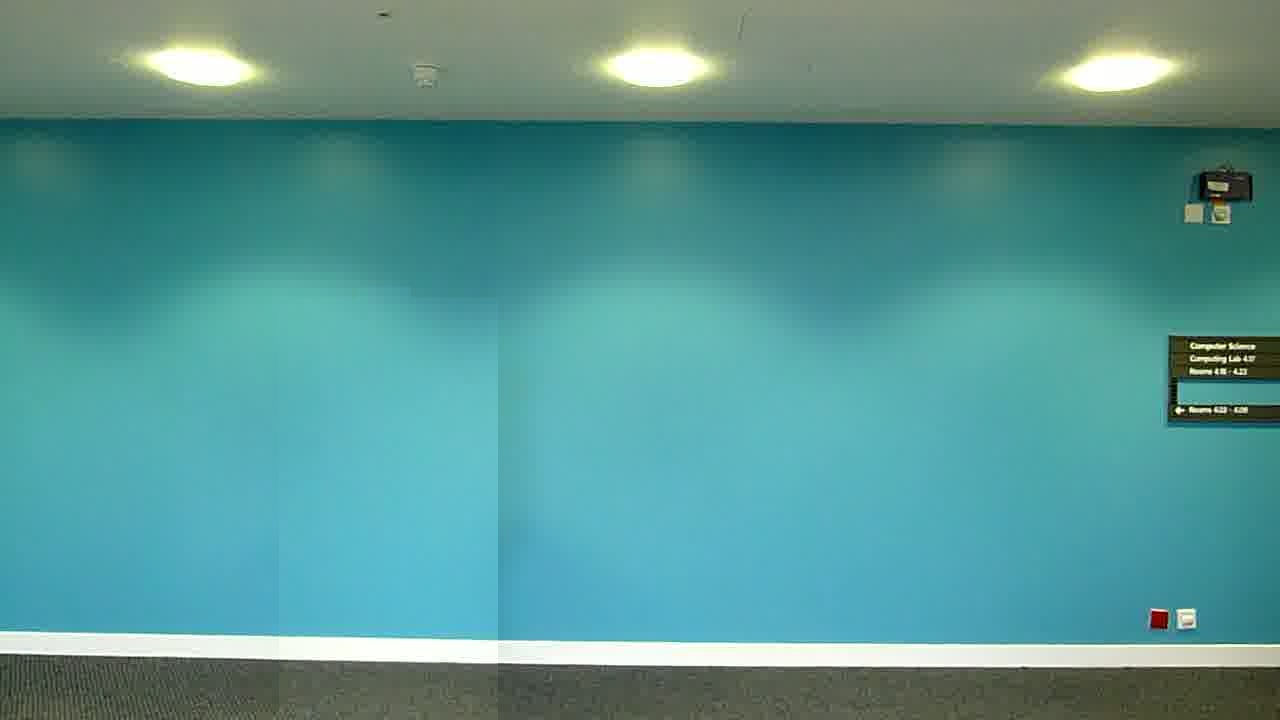
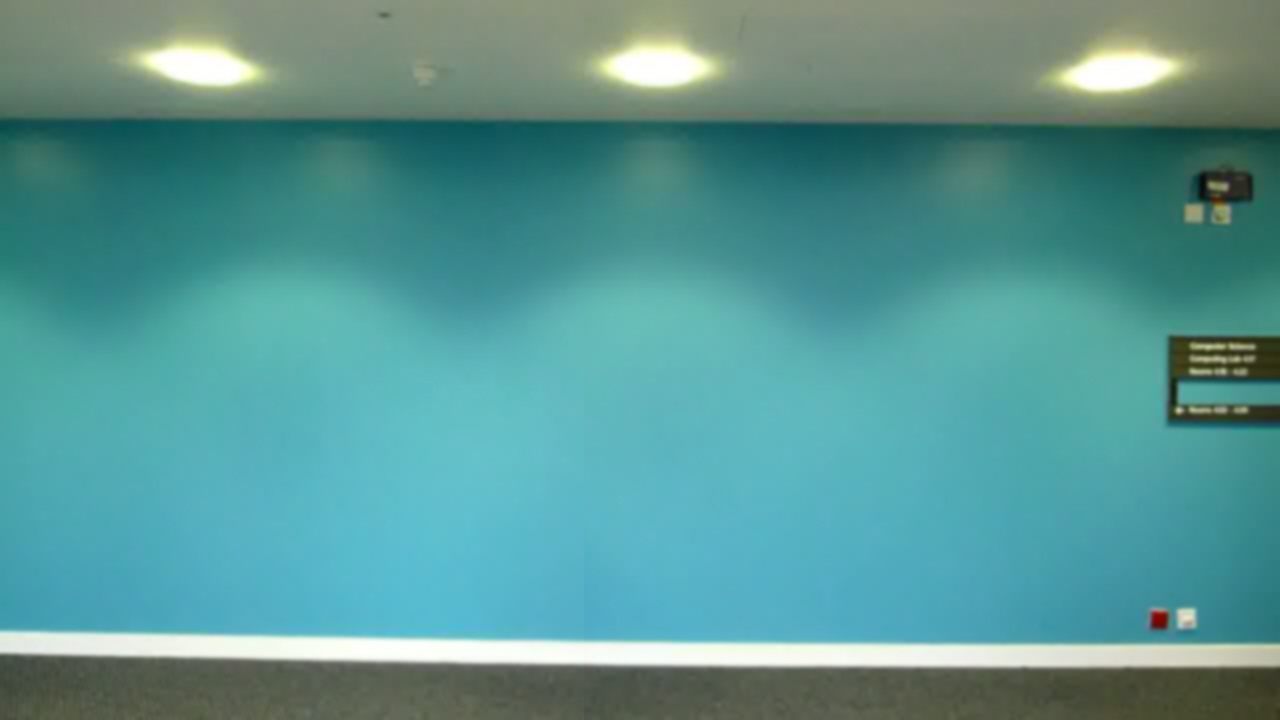
Average Blur Implemented.

diff --git a/src/bgSubtract/BgSubtract.java b/src/bgSubtract/BgSubtract.java
@@ -14,27 +14,26 @@ public class BgSubtract {
 
 	public static void main(String[] args) {
 		try {
-			BufferedImage bgImg1 = ImageIO.read(new File("background1.jpg"));
-			BufferedImage bgImg2 = ImageIO.read(new File("background2.jpg"));
-			BufferedImage[] zomg = {bgImg1, bgImg2};
+			BufferedImage bgImg1 = averageBlur(ImageIO.read(new File(
+					"background1.jpg")));
+			BufferedImage bgImg2 = averageBlur(ImageIO.read(new File(
+					"background2.jpg")));
+			BufferedImage[] zomg = { bgImg1, bgImg2 };
 			bgImg = combineImages(zomg);
 		} catch (IOException e) {
 			System.out.println("Background image not found.");
 		}
 		try {
-			currentImg = ImageIO.read(new File("input1.jpg"));
+			currentImg = averageBlur(ImageIO.read(new File("input1.jpg")));
 		} catch (IOException e) {
 			System.out.println("Input image not found!");
 		}
 
-
-		
 		if (currentImg != null && bgImg != null) {
-			if(currentImg.getWidth() != bgImg.getWidth()){
+			if (currentImg.getWidth() != bgImg.getWidth()) {
+				System.out.println("something went wrong");
 				// TODO: throw an exception
 			}
-			
-			
 			System.out.println("Editing file...");
 			saveImage(removeBackground(currentImg), "output1");
 			System.out.println("File saved!");
@@ -81,22 +80,89 @@ public class BgSubtract {
 		for (int x = 0; x < width0; x++) {
 			for (int y = 0; y < height0; y++) {
 				Color c0 = new Color(img[0].getRGB(x, y));
-				Color c1 = new Color(img[1].getRGB(x, y));		
-				
-				int red = (c0.getRed() + c1.getRed())/2;
-				int green = (c0.getGreen() + c1.getGreen())/2;
-				int blue = (c0.getBlue() + c1.getBlue())/2;
-				
+				Color c1 = new Color(img[1].getRGB(x, y));
+
+				int red = (c0.getRed() + c1.getRed()) / 2;
+				int green = (c0.getGreen() + c1.getGreen()) / 2;
+				int blue = (c0.getBlue() + c1.getBlue()) / 2;
+
 				Color blah = new Color(red, green, blue);
-				
-				// for crazy colours, jsut do newImage.setRGB(x, y, img[0].getRGB - img[1].getRGB);
+
+				// for crazy colours, jsut do newImage.setRGB(x, y,
+				// img[0].getRGB - img[1].getRGB);
 				newImage.setRGB(x, y, blah.getRGB());
 			}
 		}
 		saveImage(newImage, "newbackground");
 		return newImage;
 	}
-	
+
+	public static BufferedImage averageBlur(BufferedImage img) {
+		int height = img.getHeight();
+		int width = img.getWidth();
+
+		BufferedImage newImage = new BufferedImage(width, height,
+				BufferedImage.TYPE_INT_RGB);
+
+		Color[] colours = new Color[25];
+		int red, green, blue;
+
+		for (int x = 2; x < width - 2; x++) {
+			for (int y = 2; y < height - 2; y++) {
+				// reset colours
+				red = 0;
+				green = 0;
+				blue = 0;
+
+				// top row
+				colours[0] = new Color(img.getRGB(x - 2, y - 2));
+				colours[1] = new Color(img.getRGB(x - 1, y - 2));
+				colours[2] = new Color(img.getRGB(x, y - 2));
+				colours[3] = new Color(img.getRGB(x + 1, y - 2));
+				colours[4] = new Color(img.getRGB(x + 2, y - 2));
+				// 2nd row
+				colours[5] = new Color(img.getRGB(x - 2, y - 1));
+				colours[6] = new Color(img.getRGB(x - 1, y - 1));
+				colours[7] = new Color(img.getRGB(x, y - 1));
+				colours[8] = new Color(img.getRGB(x + 1, y - 1));
+				colours[9] = new Color(img.getRGB(x + 2, y - 1));
+				// middle row
+				colours[10] = new Color(img.getRGB(x - 2, y));
+				colours[11] = new Color(img.getRGB(x - 1, y));
+				colours[12] = new Color(img.getRGB(x, y));
+				colours[13] = new Color(img.getRGB(x + 1, y));
+				colours[14] = new Color(img.getRGB(x + 2, y));
+				// 4th row
+				colours[15] = new Color(img.getRGB(x - 2, y + 1));
+				colours[16] = new Color(img.getRGB(x - 1, y + 1));
+				colours[17] = new Color(img.getRGB(x, y + 1));
+				colours[18] = new Color(img.getRGB(x + 1, y + 1));
+				colours[19] = new Color(img.getRGB(x + 2, y + 1));
+				// 5th row
+				colours[20] = new Color(img.getRGB(x - 2, y + 2));
+				colours[21] = new Color(img.getRGB(x - 1, y + 2));
+				colours[22] = new Color(img.getRGB(x, y + 2));
+				colours[23] = new Color(img.getRGB(x + 1, y + 2));
+				colours[24] = new Color(img.getRGB(x + 2, y + 2));
+
+				// get average colour
+				for (Color cellColour : colours) {
+					red += cellColour.getRed();
+					green += cellColour.getGreen();
+					blue += cellColour.getBlue();
+				}
+				red = red / 25;
+				green = green / 25;
+				blue = blue / 25;
+				Color newColour = new Color(red, green, blue);
+
+				newImage.setRGB(x, y, newColour.getRGB());
+			}
+		}
+
+		return newImage;
+	}
+
 	public static BufferedImage removeBackground(BufferedImage img) {
 		int height = img.getHeight();
 		int width = img.getWidth();
@@ -108,29 +174,35 @@ public class BgSubtract {
 				Color bgColour = new Color(bgImg.getRGB(x, y));
 				Color imgColour = new Color(img.getRGB(x, y));
 
-//				newImage.setRGB(x, y, imgColour - bgColour);
+				// newImage.setRGB(x, y, imgColour - bgColour);
 
-//				int red = imgColour.getRed() - bgColour.getRed();
-//				int green = imgColour.getGreen() - bgColour.getGreen();
-//				int blue = imgColour.getBlue() - bgColour.getBlue();
-//				
-//				Color argh = new Color(fixColoursInRange(red),fixColoursInRange(green),fixColoursInRange(blue));
-//				
-//				newImage.setRGB(x, y, argh.getRGB());
-				
-				if ((imgColour.getRed() >= bgColour.getRed() - threshold && imgColour.getRed() <= bgColour.getRed() + threshold)
-					&& (imgColour.getGreen() >= bgColour.getGreen() - threshold && imgColour.getGreen() <= bgColour.getGreen() + threshold)
-					&& (imgColour.getBlue() >= bgColour.getBlue() - threshold && imgColour.getBlue() <= bgColour.getBlue() + threshold)
-						) {
+				// int red = imgColour.getRed() - bgColour.getRed();
+				// int green = imgColour.getGreen() - bgColour.getGreen();
+				// int blue = imgColour.getBlue() - bgColour.getBlue();
+				//
+				// Color argh = new
+				// Color(fixColoursInRange(red),fixColoursInRange(green),fixColoursInRange(blue));
+				//
+				// newImage.setRGB(x, y, argh.getRGB());
+
+				if ((imgColour.getRed() >= bgColour.getRed() - threshold && imgColour
+						.getRed() <= bgColour.getRed() + threshold)
+						&& (imgColour.getGreen() >= bgColour.getGreen()
+								- threshold && imgColour.getGreen() <= bgColour
+								.getGreen() + threshold)
+						&& (imgColour.getBlue() >= bgColour.getBlue()
+								- threshold && imgColour.getBlue() <= bgColour
+								.getBlue() + threshold)) {
 					// if colours match, remove it
 					int red = imgColour.getRed() - bgColour.getRed();
 					int green = imgColour.getGreen() - bgColour.getGreen();
 					int blue = imgColour.getBlue() - bgColour.getBlue();
-					
-					Color argh = new Color(fixColoursInRange(red),fixColoursInRange(green),fixColoursInRange(blue));
-					
+
+					Color argh = new Color(fixColoursInRange(red),
+							fixColoursInRange(green), fixColoursInRange(blue));
+
 					newImage.setRGB(x, y, argh.getRGB());
-//					newImage.setRGB(x, y, 0);
+					// newImage.setRGB(x, y, 0);
 				} else {
 					// else copy it over
 					newImage.setRGB(x, y, imgColour.getRGB());
@@ -149,13 +221,12 @@ public class BgSubtract {
 			e.printStackTrace();
 		}
 	}
-	
-	
-	public static int fixColoursInRange(int colour){
-		if(colour<0){
+
+	public static int fixColoursInRange(int colour) {
+		if (colour < 0) {
 			colour = 0;
 		}
-		if(colour>255){
+		if (colour > 255) {
 			colour = 255;
 		}
 		return colour;
